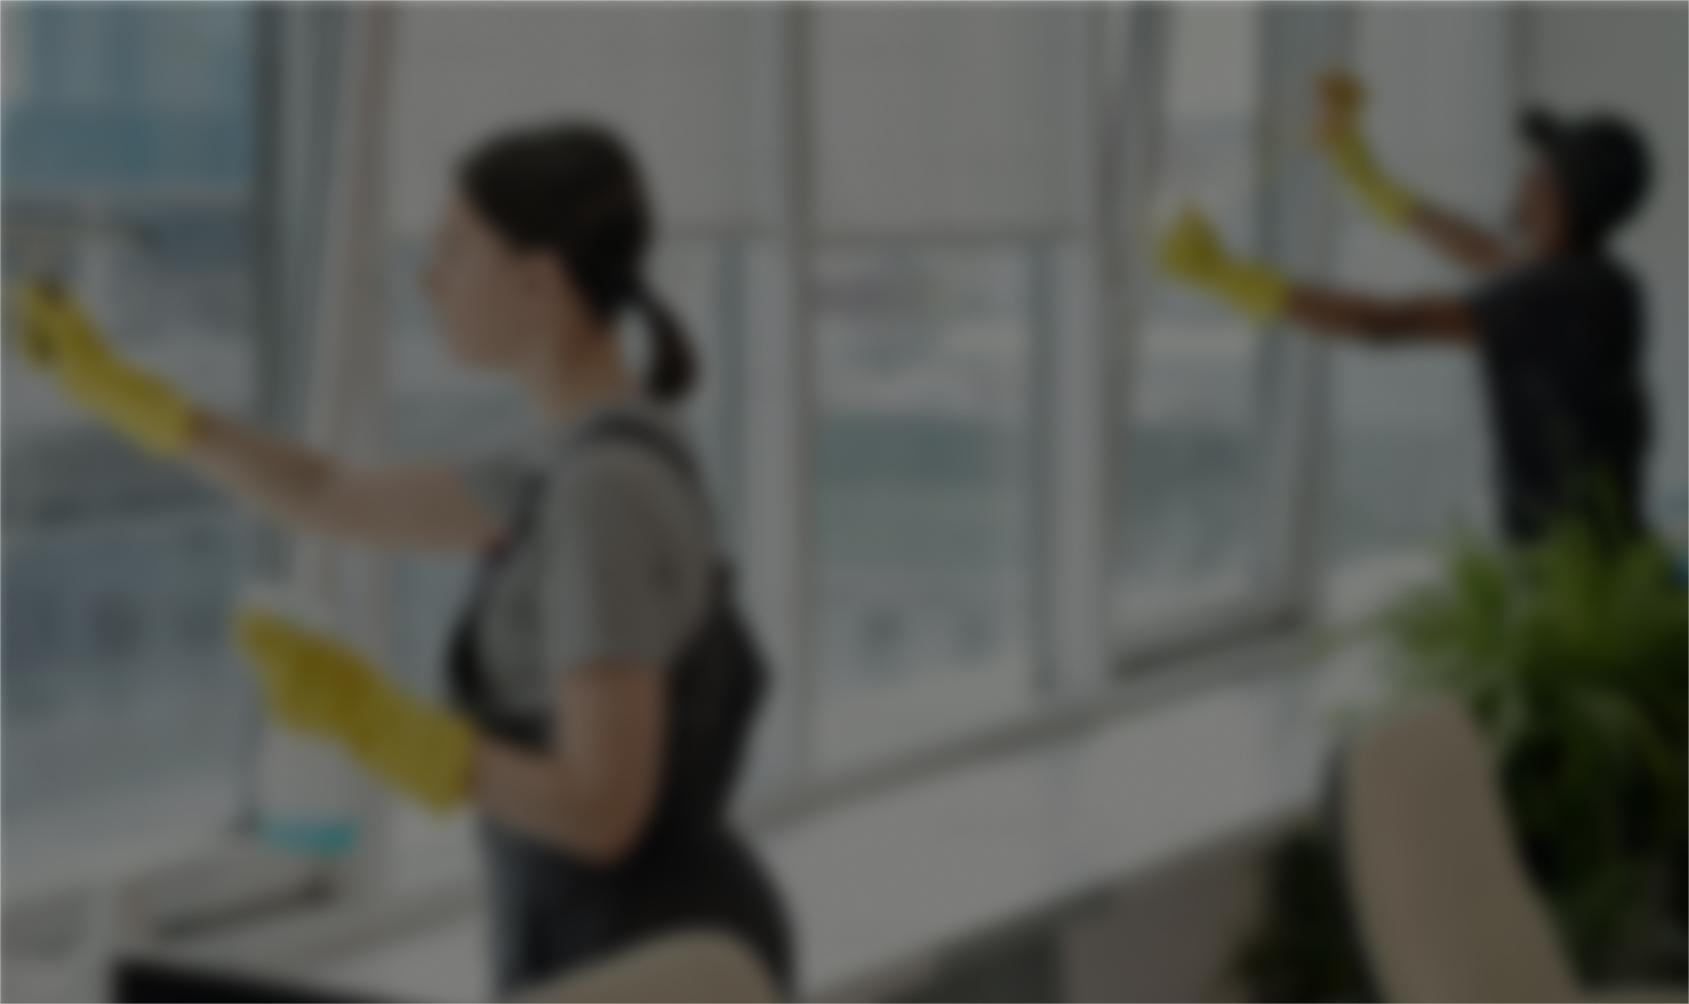
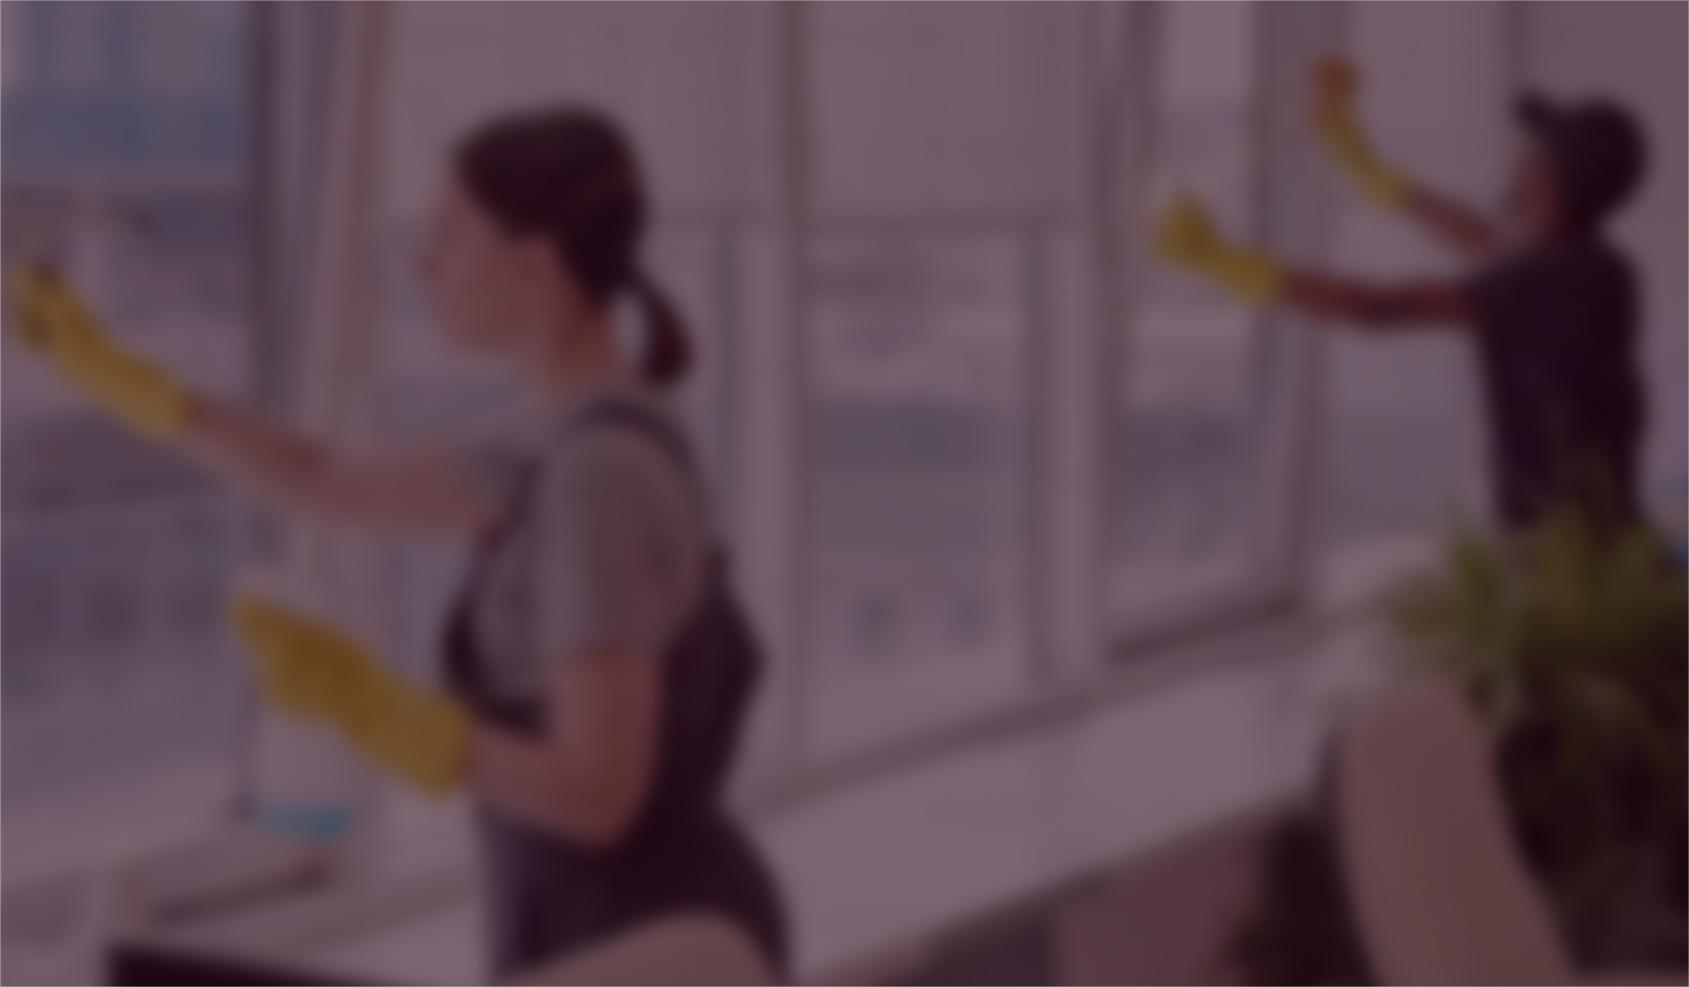
alteracoes2

diff --git a/index.html b/index.html
@@ -223,6 +223,34 @@
                 </div>
             </div>
             <button class="portfoliobutton"><a href="#contact">Get a free estimate</a></button>
+
+            <h3>Areas we serve:</h3>
+              <div class="listareas" id="list">
+                <ul>
+                  <li>Bexley</li>
+                  <li>Blacklick</li>
+                  <li>Canal Winchester</li>
+                  <li>Clintonville</li>
+                  <li>Dublin</li>
+                  <li>Columbus</li>
+                  <li>Gahanna</li>
+                  <li>Galena</li>
+                  <li>Galloway</li>
+                  <li>Hilliard</li>
+                  </ul><ul>
+                  <li>Lewis Center</li>
+                  <li>Marysville</li>
+                  <li>New Albany</li>
+                  <li>Plain City</li>
+                  <li>Powell</li>
+                  <li>Pickerington</li>
+                  <li>Reynoldsburg</li>
+                  <li>Upper Arlington</li>
+                  <li>Westerville</li>
+                  <li>Worthington</li>
+                </ul>
+              </div>
+
             <svg class="vetor" width="265" height="8" viewBox="0 0 265 8" fill="none" xmlns="http://www.w3.org/2000/svg">
             <mask id="mask0_6004_3089" style="mask-type:luminance" maskUnits="userSpaceOnUse" x="0" y="0" width="265" height="8">
             <path d="M264.842 0.394531H0.841797V7.39453H264.842V0.394531Z" fill="white"/>
@@ -421,31 +449,31 @@
             <ul>
               <li>
                 <h2><svg xmlns="http://www.w3.org/2000/svg" width="24" height="25" viewBox="0 -4 24 25" fill="none">
-                  <path d="M12 7C12.663 7 13.2989 7.26339 13.7678 7.73223C14.2366 8.20107 14.5 8.83696 14.5 9.5C14.5 9.8283 14.4353 10.1534 14.3097 10.4567C14.1841 10.76 13.9999 11.0356 13.7678 11.2678C13.5356 11.4999 13.26 11.6841 12.9567 11.8097C12.6534 11.9353 12.3283 12 12 12C11.337 12 10.7011 11.7366 10.2322 11.2678C9.76339 10.7989 9.5 10.163 9.5 9.5C9.5 8.83696 9.76339 8.20107 10.2322 7.73223C10.7011 7.26339 11.337 7 12 7ZM12 2.5C13.8565 2.5 15.637 3.2375 16.9497 4.55025C18.2625 5.86301 19 7.64348 19 9.5C19 14.75 12 22.5 12 22.5C12 22.5 5 14.75 5 9.5C5 7.64348 5.7375 5.86301 7.05025 4.55025C8.36301 3.2375 10.1435 2.5 12 2.5ZM12 4.5C10.6739 4.5 9.40215 5.02678 8.46447 5.96447C7.52678 6.90215 7 8.17392 7 9.5C7 10.5 7 12.5 12 19.21C17 12.5 17 10.5 17 9.5C17 8.17392 16.4732 6.90215 15.5355 5.96447C14.5979 5.02678 13.3261 4.5 12 4.5Z" fill="#fff"/>
+                  <path d="M12 7C12.663 7 13.2989 7.26339 13.7678 7.73223C14.2366 8.20107 14.5 8.83696 14.5 9.5C14.5 9.8283 14.4353 10.1534 14.3097 10.4567C14.1841 10.76 13.9999 11.0356 13.7678 11.2678C13.5356 11.4999 13.26 11.6841 12.9567 11.8097C12.6534 11.9353 12.3283 12 12 12C11.337 12 10.7011 11.7366 10.2322 11.2678C9.76339 10.7989 9.5 10.163 9.5 9.5C9.5 8.83696 9.76339 8.20107 10.2322 7.73223C10.7011 7.26339 11.337 7 12 7ZM12 2.5C13.8565 2.5 15.637 3.2375 16.9497 4.55025C18.2625 5.86301 19 7.64348 19 9.5C19 14.75 12 22.5 12 22.5C12 22.5 5 14.75 5 9.5C5 7.64348 5.7375 5.86301 7.05025 4.55025C8.36301 3.2375 10.1435 2.5 12 2.5ZM12 4.5C10.6739 4.5 9.40215 5.02678 8.46447 5.96447C7.52678 6.90215 7 8.17392 7 9.5C7 10.5 7 12.5 12 19.21C17 12.5 17 10.5 17 9.5C17 8.17392 16.4732 6.90215 15.5355 5.96447C14.5979 5.02678 13.3261 4.5 12 4.5Z" fill="#B4307F"/>
                 </svg> Location</h2>
                 <p>Columbus, Ohio</p>
                   <a href="https://maps.app.goo.gl/p5mV6YXa43Gw2opN9" target="_blank">View Map</a>
               <br>
                   <svg xmlns="http://www.w3.org/2000/svg" width="62" height="22" viewBox="0 0 62 6" fill="none">
-                    <path d="M0 3C0 1.61929 1.11929 0.5 2.5 0.5H59.5C60.8807 0.5 62 1.61929 62 3C62 4.38071 60.8807 5.5 59.5 5.5H2.5C1.11929 5.5 0 4.38071 0 3Z" fill="#fff"/>
+                    <path d="M0 3C0 1.61929 1.11929 0.5 2.5 0.5H59.5C60.8807 0.5 62 1.61929 62 3C62 4.38071 60.8807 5.5 59.5 5.5H2.5C1.11929 5.5 0 4.38071 0 3Z" fill="#F4C977"/>
                   </svg>
                 </li>
               <li>
                 <h2><svg xmlns="http://www.w3.org/2000/svg" width="24" height="25" viewBox="0 -4 24 25" fill="none">
-                  <path d="M22 6.5C22 5.4 21.1 4.5 20 4.5H4C2.9 4.5 2 5.4 2 6.5V18.5C2 19.6 2.9 20.5 4 20.5H20C21.1 20.5 22 19.6 22 18.5V6.5ZM20 6.5L12 11.5L4 6.5H20ZM20 18.5H4V8.5L12 13.5L20 8.5V18.5Z" fill="#fff"/>
+                  <path d="M22 6.5C22 5.4 21.1 4.5 20 4.5H4C2.9 4.5 2 5.4 2 6.5V18.5C2 19.6 2.9 20.5 4 20.5H20C21.1 20.5 22 19.6 22 18.5V6.5ZM20 6.5L12 11.5L4 6.5H20ZM20 18.5H4V8.5L12 13.5L20 8.5V18.5Z" fill="#B4307F"/>
                 </svg> Email</h2>
                 <p>contact@nelly-cleaning.com</p>
                     <svg xmlns="http://www.w3.org/2000/svg" width="62" height="22" viewBox="0 0 62 6" fill="none">
-                      <path d="M0 3C0 1.61929 1.11929 0.5 2.5 0.5H59.5C60.8807 0.5 62 1.61929 62 3C62 4.38071 60.8807 5.5 59.5 5.5H2.5C1.11929 5.5 0 4.38071 0 3Z" fill="#fff"/>
+                      <path d="M0 3C0 1.61929 1.11929 0.5 2.5 0.5H59.5C60.8807 0.5 62 1.61929 62 3C62 4.38071 60.8807 5.5 59.5 5.5H2.5C1.11929 5.5 0 4.38071 0 3Z" fill="#F4C977"/>
                     </svg>    
               </li>
               <li>
                 <h2><svg xmlns="http://www.w3.org/2000/svg" width="24" height="25" viewBox="0 -2 24 25" fill="none">
-                  <path d="M19.1 9.2C20.9 11 20.9 13.8 19.1 15.7L20.1 16.7C22.6 14.4 22.6 10.6 20.1 8.2L19.1 9.2ZM18 10.3L17 11.3C17.5 12 17.5 12.9 17 13.6L18 14.6C19.2 13.4 19.2 11.6 18 10.3ZM14 1.5H4C3.46957 1.5 2.96086 1.71071 2.58579 2.08579C2.21071 2.46086 2 2.96957 2 3.5V21.5C2 22.0304 2.21071 22.5391 2.58579 22.9142C2.96086 23.2893 3.46957 23.5 4 23.5H14C14.5304 23.5 15.0391 23.2893 15.4142 22.9142C15.7893 22.5391 16 22.0304 16 21.5V3.5C16 2.96957 15.7893 2.46086 15.4142 2.08579C15.0391 1.71071 14.5304 1.5 14 1.5ZM14 20.5H4V4.5H14V20.5Z" fill="#fff"/>
+                  <path d="M19.1 9.2C20.9 11 20.9 13.8 19.1 15.7L20.1 16.7C22.6 14.4 22.6 10.6 20.1 8.2L19.1 9.2ZM18 10.3L17 11.3C17.5 12 17.5 12.9 17 13.6L18 14.6C19.2 13.4 19.2 11.6 18 10.3ZM14 1.5H4C3.46957 1.5 2.96086 1.71071 2.58579 2.08579C2.21071 2.46086 2 2.96957 2 3.5V21.5C2 22.0304 2.21071 22.5391 2.58579 22.9142C2.96086 23.2893 3.46957 23.5 4 23.5H14C14.5304 23.5 15.0391 23.2893 15.4142 22.9142C15.7893 22.5391 16 22.0304 16 21.5V3.5C16 2.96957 15.7893 2.46086 15.4142 2.08579C15.0391 1.71071 14.5304 1.5 14 1.5ZM14 20.5H4V4.5H14V20.5Z" fill="#B4307F"/>
                 </svg> Phone</h2>
                 <p>(614) 369-7587</p>
                     <svg xmlns="http://www.w3.org/2000/svg" width="62" height="22" viewBox="0 0 62 6" fill="none">
-                      <path d="M0 3C0 1.61929 1.11929 0.5 2.5 0.5H59.5C60.8807 0.5 62 1.61929 62 3C62 4.38071 60.8807 5.5 59.5 5.5H2.5C1.11929 5.5 0 4.38071 0 3Z" fill="#fff"/>
+                      <path d="M0 3C0 1.61929 1.11929 0.5 2.5 0.5H59.5C60.8807 0.5 62 1.61929 62 3C62 4.38071 60.8807 5.5 59.5 5.5H2.5C1.11929 5.5 0 4.38071 0 3Z" fill="#F4C977"/>
                     </svg>
               </li>
             </ul>
@@ -453,7 +481,7 @@
         </div>  
         </div>
     </main>
-    <footer>
+    <footer class="bg-pink">
         <div class="footergrid">
           <div class="footerimglogo">
             <img src="./assets/nelly-logoprimary.png" alt="nelly Concrete logo" draggable="false">
@@ -505,6 +533,17 @@
                     </li>
                 </ul>
               </div>
+                <div class="address opentime">
+                    <ul>
+                        <li style="font-weight:bold;">Our Hours</li>
+                        <li>Mon: 8am - 6pm</li>
+                        <li>Tue: 8am - 6pm</li>
+                        <li>Wed: 8am - 6pm</li>
+                        <li>Thu: 8am - 6pm</li>
+                        <li>Fri: 8am - 6pm</li>
+                        <li>Sat: 8am - 6pm</li>
+                    </ul>
+                </div>
                 <div class="address">
                     <ul>
                         <li style="font-weight:bold;">Services</li>

diff --git a/css/style.css b/css/style.css
@@ -218,7 +218,7 @@ video{
     margin: auto;
     object-fit: cover !important;
     bottom: 0;
-    margin-bottom: -1px;
+    margin-bottom: 0;
     border-bottom-left-radius: 24px;
     border-bottom-right-radius: 24px;
   }
@@ -290,6 +290,31 @@ video{
     width: 100%;
     margin: auto;
 } 
+.servicescontainer h3{
+    margin: auto;
+    font-size: 20px;
+}
+.listareas{
+    display: flex;
+    width: 100%;
+    max-width: 1500px;
+    margin: auto;
+    justify-content: center;
+    gap: 56px;
+    text-align: left;
+    margin-top: 32px;
+    padding-left: 45px;
+    font-size: 16px;
+    line-height: 130%;
+    font-weight: 500;
+    margin-bottom: 40px;
+}
+.listareas ul{
+    text-decoration: dotted;
+}
+.listareas ul li::marker{
+    color: #B4307F;
+}
 @media screen and (max-width: 999px) {
     .cardp h3{
         font-size: 18px;
@@ -308,6 +333,7 @@ video{
     .servicestitle p{
         padding: 0 10px;
     }
+    .listareas{padding: 0;}
 }
 .bg-pink{
     background: linear-gradient(229deg, rgb(155, 42, 110) 0%, rgb(146, 39, 103) 40%, rgba(0,0,0) 95%);
@@ -691,6 +717,7 @@ video{
     color: #fff;
     width: 230px;
     margin: auto;
+    z-index: 99;
     margin-bottom: 30px;
 }
 
@@ -707,6 +734,7 @@ form {
     border-radius: 8px;
     padding: 16px;
     margin-top: 30px;
+    z-index: 99;
 }
 .formgroup{
     display: flex;
@@ -755,8 +783,8 @@ form button{
     width: 100%;
     max-width: 9999px;
     margin: auto;
-    background-color: #020202;
-    color: #FFF;
+    background-color: #fff;
+    color: #000;
     padding: 48px 0 86px;
 }
 .mapsfooter{
@@ -787,6 +815,7 @@ form button{
     font-style: normal;
     font-weight: 700;
     line-height: 100%;
+    color: #B4307F;
 }
 .mapinfo ul li a{
     margin-top: 8px;

diff --git a/css/footer.css b/css/footer.css
@@ -4,7 +4,6 @@ footer{
     max-width: 9990px;
     margin: auto;
     height: auto;
-    background-color: #48082E;
     color: #fff;
 }
 .footergrid{
@@ -58,7 +57,7 @@ footer{
     display: flex;
     justify-content: space-between;
     width: auto;
-    column-gap: 22px;
+    column-gap: 32px;
 }
 .footernav{
     display: flex;
@@ -93,6 +92,7 @@ footer{
 .address ul{    
     height: 125px;
 }
+.opentime ul{height: 175px;}
 .address ul li {
     position: relative;
     display: flex;
@@ -132,7 +132,6 @@ footer{
     max-width: 9990px;
     margin: auto;
     padding: 50px 90px;
-    background-color: #48082E;
     align-items: center;
     text-align: center;    
     border-top: 1px solid #F4C977;

diff --git a/services/moveinoutcleaning.html b/services/moveinoutcleaning.html
@@ -162,7 +162,7 @@
      </div>  
      </div>
  </main>
- <footer>
+ <footer class="bg-pink">
      <div class="footergrid">
        <div class="footerimglogo">
          <img src="../assets/nelly-logoprimary.png" alt="nelly Concrete logo" draggable="false">

diff --git a/services/officecleaning.html b/services/officecleaning.html
@@ -162,7 +162,7 @@
      </div>  
      </div>
  </main>
- <footer>
+ <footer class="bg-pink">
      <div class="footergrid">
        <div class="footerimglogo">
          <img src="../assets/nelly-logoprimary.png" alt="nelly Concrete logo" draggable="false">

diff --git a/services/postconstructioncleaning.html b/services/postconstructioncleaning.html
@@ -162,7 +162,7 @@
      </div>  
      </div>
  </main>
- <footer>
+ <footer class="bg-pink">
      <div class="footergrid">
        <div class="footerimglogo">
          <img src="../assets/nelly-logoprimary.png" alt="nelly Concrete logo" draggable="false">

diff --git a/services/residentialcleaning.html b/services/residentialcleaning.html
@@ -162,7 +162,7 @@
      </div>  
      </div>
  </main>
- <footer>
+ <footer class="bg-pink">
      <div class="footergrid">
        <div class="footerimglogo">
          <img src="../assets/nelly-logoprimary.png" alt="nelly Concrete logo" draggable="false">
